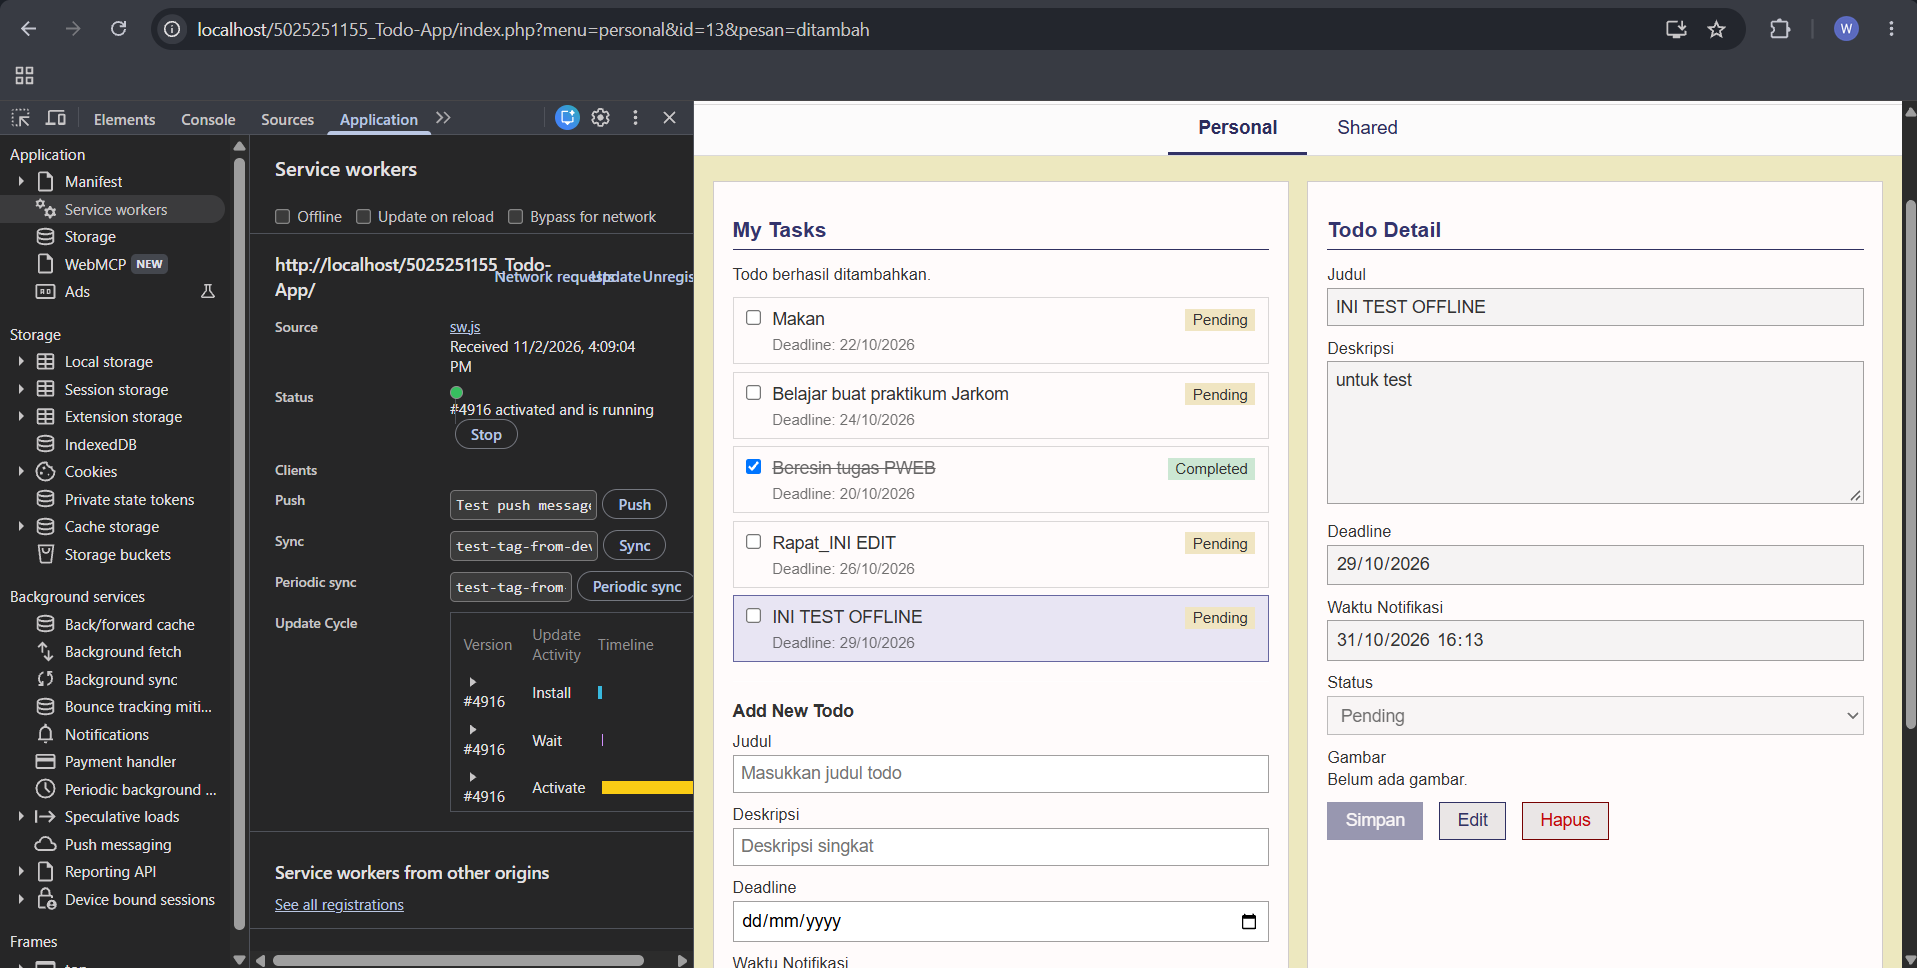
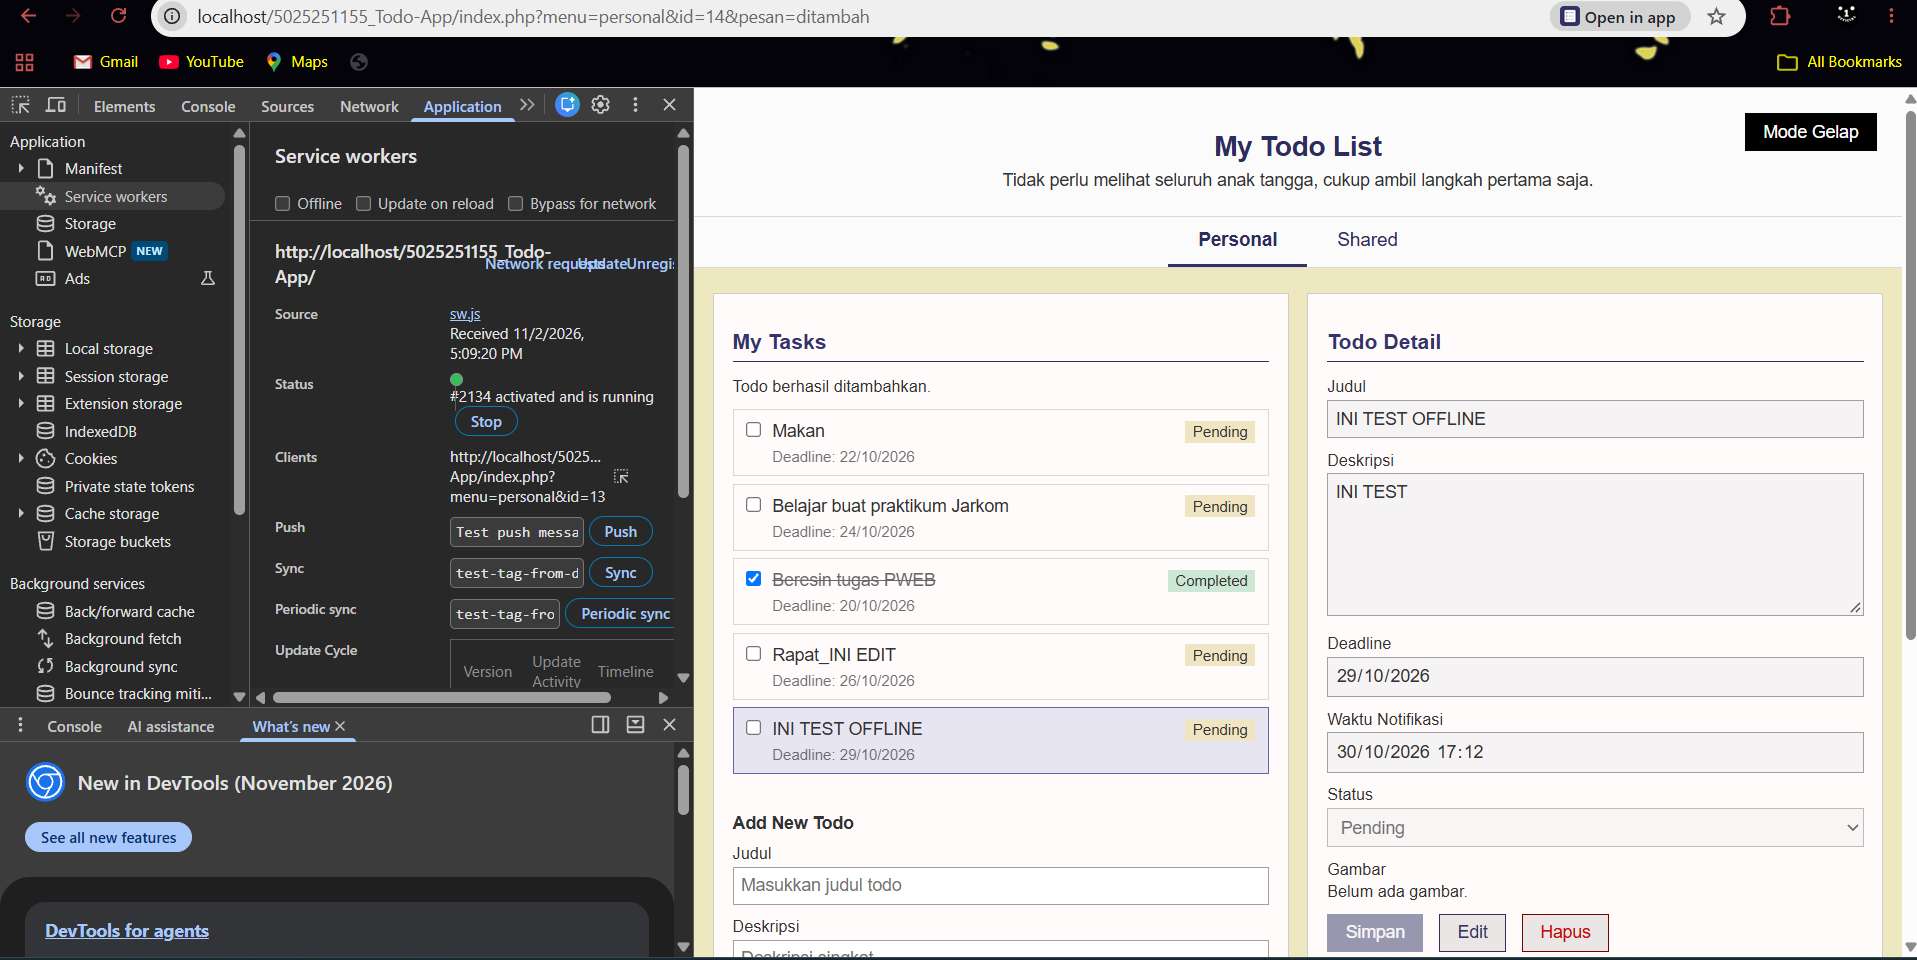
revisi warning offline

Changed region(s): [[0.0, 0.0, 1.0, 1.0], [0.1231, 0.4688, 0.1847, 0.5]]

diff --git a/README.md b/README.md
@@ -50,7 +50,6 @@ Beberapa hal yang ditambahkan pada E05 antara lain:
 - Pada tab Network, halaman index.php?menu=personal ditangani oleh Service Worker dan ditampilkan sebagai ServiceWorker pada kolom Size. File style.css juga tetap berhasil dimuat.Request berwarna merah dengan tipe fetch dan initiator sw.js menunjukkan permintaan jaringan yang gagal karena koneksi terputus. Service Worker kemudian menampilkan halaman offline dari cache. Sementara itu, script.js tidak diminta oleh halaman offline, tetapi sudah tersimpan di Cache Storage.
 ![network offline](assetsE05/offline/network_offline.png)
 - Menambah atau mencentang todo saat offline ditolak dengan pesan peringatan
-![peringatan offline](assetsE05/offline/peringatan_offline1.png)
-![peringatan offline](assetsE05/offline/peringatan_offline2.png)
-- Setelah online kembali dan tombol Coba Lagi ditekan, halaman todo tampil normal. Todo yang sebelumnya ditambahkan pada saat offline sudah masuk ke daftar todo list saat setelah kembali online.
+![peringatan offline](assetsE05/offline/peringatan_offline.png)
+- Setelah online kembali dan tombol Coba Lagi ditekan, halaman todo tampil normal.
 ![kembali online](assetsE05/offline/kembali_online.png)
